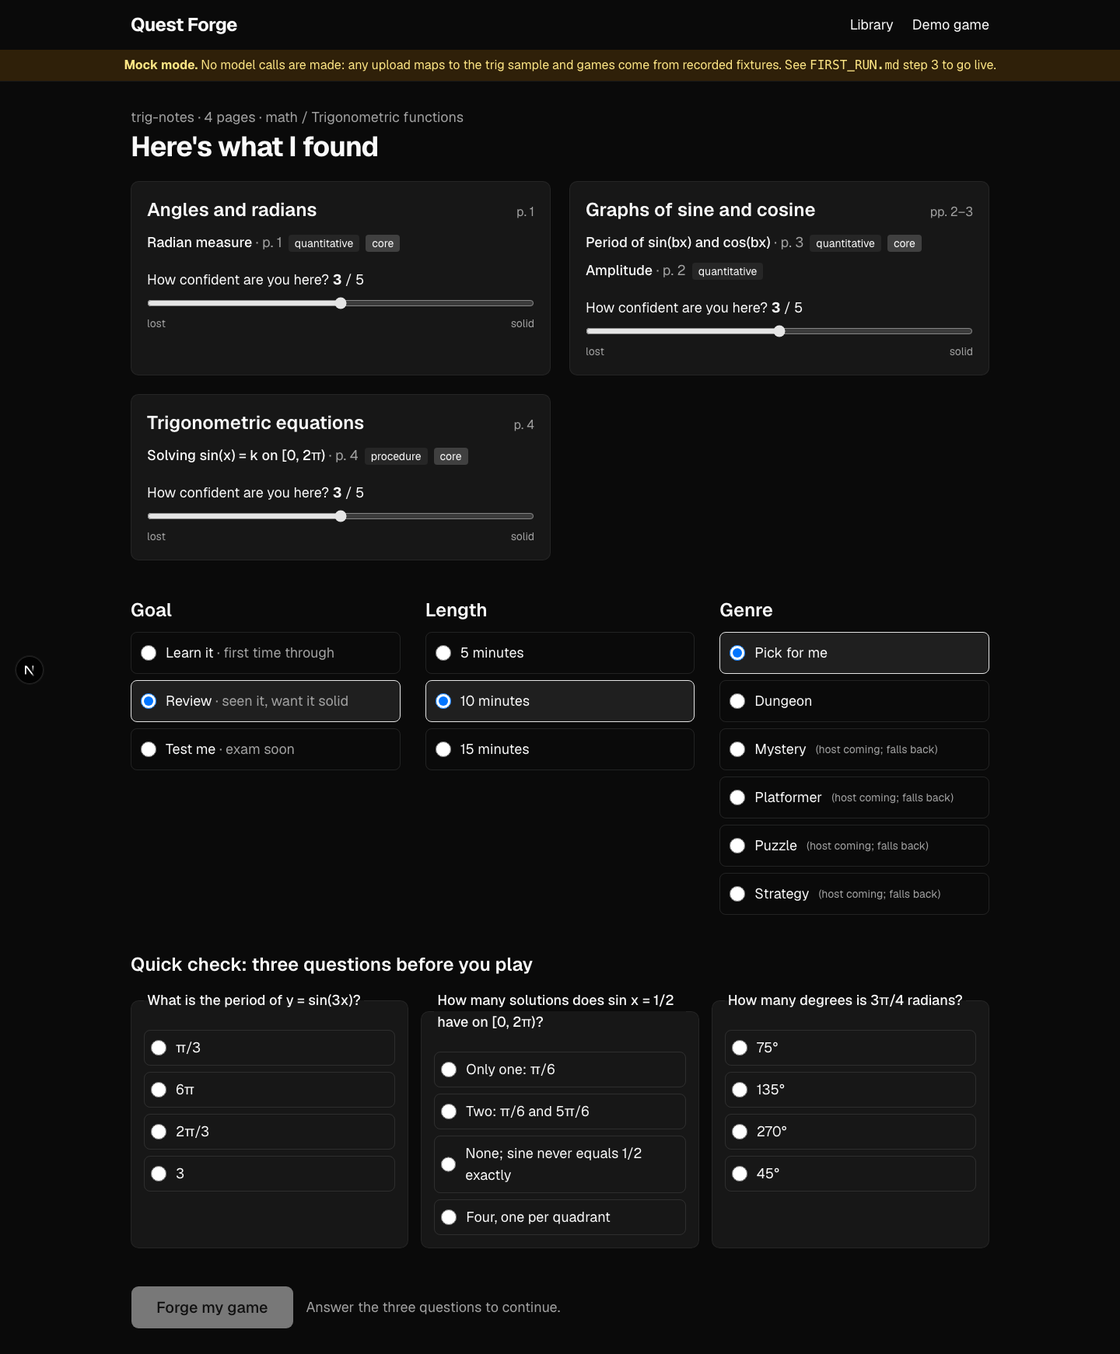
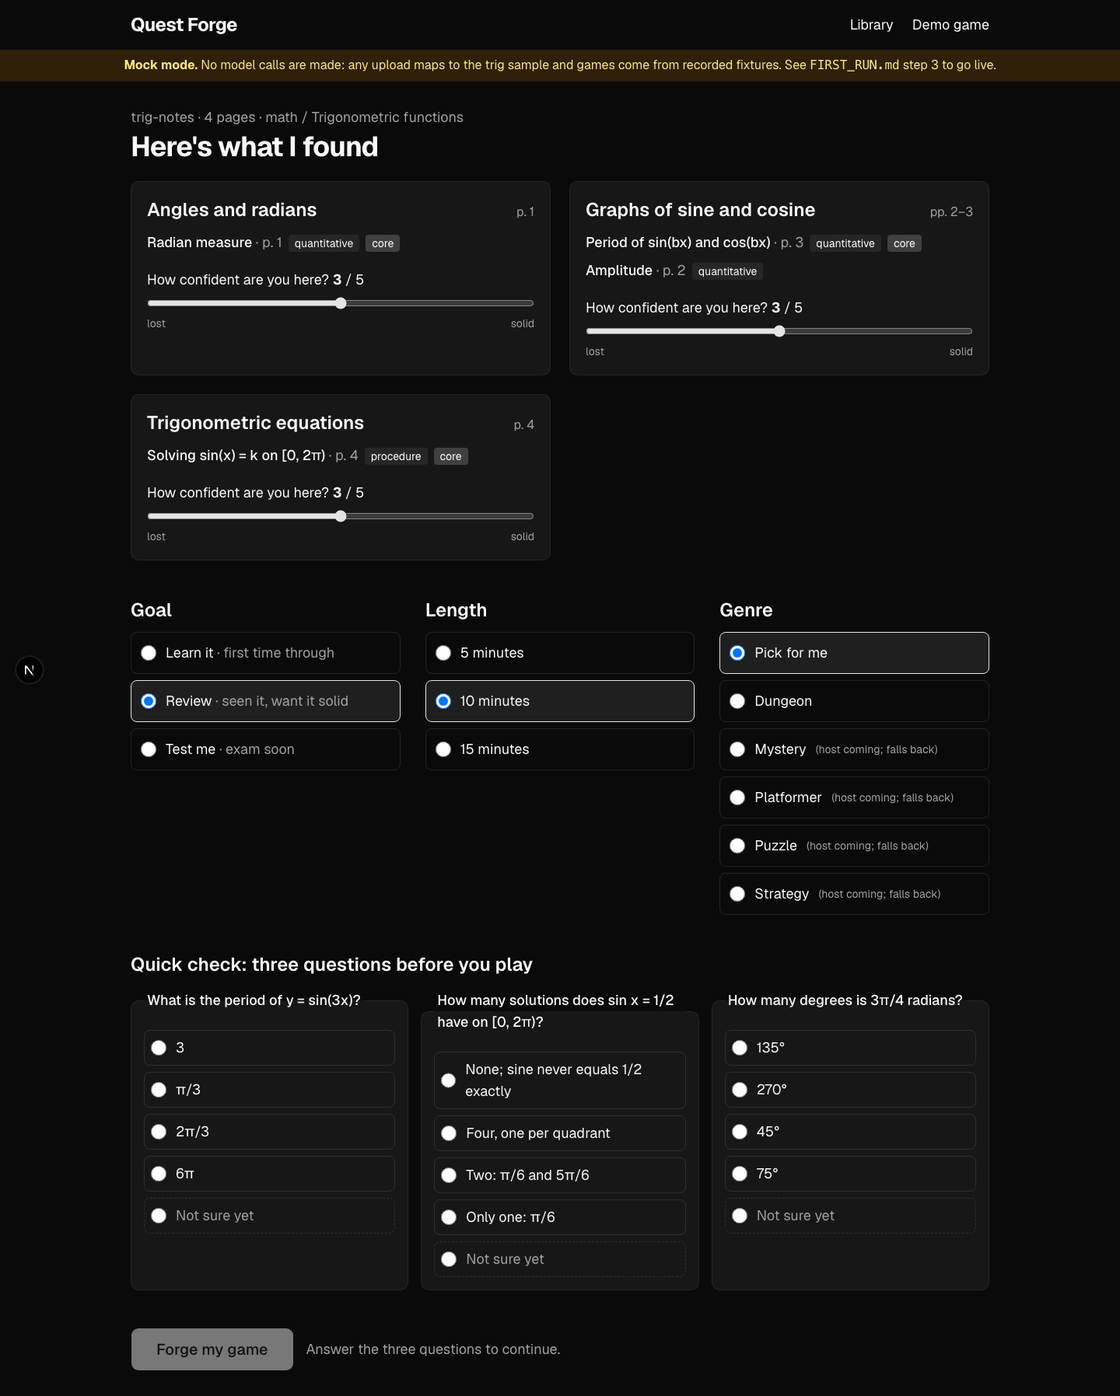
Finalize the overnight reports

diff --git a/src/contracts/storage.ts b/src/contracts/storage.ts
@@ -93,6 +93,8 @@ export interface StorageDriver {
   getTelemetry(gameId: string): Promise<TelemetryEvent[]>;
   /** Stores bytes at a path like "sources/<id>.pdf" or "audio/<hash>.mp3"; returns the path. */
   putBlob(path: string, data: Uint8Array, contentType: string): Promise<string>;
+  /** Reads a stored blob back (server side), or null when absent. Also used for small JSON side records such as intake prep. */
+  getBlob(path: string): Promise<Uint8Array | null>;
   /** Public URL the browser can fetch for a stored blob path. */
   blobUrl(path: string): string;
 }

diff --git a/MORNING_REPORT.md b/MORNING_REPORT.md
@@ -1,52 +1,60 @@
 # MORNING_REPORT.md
 
-_Last updated: 02:10 Sat (checkpoint 32). Final pass (P12) pending the three review-fix workers._
+_Final pass: 02:55 Sat (checkpoint 40). STATUS: COMPLETE in `PROGRESS.md`; the auto-continue hook is off._
 
 ## 1. Summary
 
-The whole product runs end to end in mock mode with zero keys: upload a PDF (or paste text, or type a topic) → the
-intake page shows the extracted concepts with page ranges, confidence sliders and a 3-question pre-check → the Forge
-streams one live card per agent over SSE, including verifier catches → the game plays in a Phaser 4 Dungeon or a
-DOM Mystery host with keyboard-accessible widgets → the debrief asks the post-check and shows pre→post, per-concept
-mastery and "what you just did" cards, with Replay / Regenerate-as-genre / Focus-on-weak-spots all wired. The
-library holds all 316 LIBRARY §6 cards across 14 families; 303 of them are playable through 61 implemented
-family·modes (every wave-1 mode and all of wave 2 except 8 niche modes), each with unit tests for check/resolve/grade and a fixture
-encounter. No live API has been called; the live code paths (OpenAI via AI SDK v7, ElevenLabs, Supabase) exist,
-are typed and unit-tested with fakes, and are documented step by step in `FIRST_RUN.md`.
+The whole product runs end to end in mock mode with zero keys and no paid API was called all night: upload a PDF (or
+paste text, or type a topic) → the intake page shows the extracted concepts with page ranges, confidence sliders and a
+3-question pre-check (with a "Not sure yet" option) → the Forge streams one live card per agent over SSE, including
+verifier catches → the game plays in a Phaser 4 **Dungeon**, a Phaser 4 **Platformer** or a DOM **Mystery** host with
+keyboard-accessible widgets → the debrief asks the post-check and shows pre→post, per-concept mastery and "what you just
+did" cards, with Replay / Regenerate-as-genre / Focus-on-weak-spots all wired and working on the showcase fixtures.
+
+The library holds all 316 LIBRARY §6 cards across 14 families; **303 are playable** through 61 implemented family·modes
+(every wave-1 and wave-2 mode except 8 niche ones), each with unit tests for check/resolve/grade, a fixture encounter,
+a widget, and a generic answer-leak test that proves wrong-answer feedback never contains the answer. An Opus reviewer
+read the whole tree at ~01:40; every critical/high/medium finding is fixed and checkpointed (§5b). The live code paths
+(OpenAI via AI SDK v7, ElevenLabs, Supabase) exist, are typed and unit-tested with fakes, and `FIRST_RUN.md` walks you
+through turning each one on.
 
 ## 2. Phases
 
 | Phase | Status | Notes |
 |---|---|---|
-| P0 bootstrap | done | Next 16.3.6, TS 5.9.3, Vitest 5, Playwright 1.63, shadcn; seed imported |
+| P0 bootstrap | done | Next 16.3.6, TS 5.9.3, Vitest 5, Playwright 1.63, shadcn; seed imported; `pnpm run doctor` |
 | P1 contracts v2 | done | 14 families / all modes registered, GameSpec v2, every LLM-facing slice schema strict-mode audited |
 | P2 library catalog | done | 316 cards / 23 domain files, retrieval matcher (6 golden cases), `pnpm library:report`, `/library` |
-| P3 runtime + dungeon | done | Phaser 4 host + DOM fallback, widgets, hint familiar, consequence overlay, mastery HUD, end screen, `__GAME_DEBUG__` |
-| P5a pipeline foundation | done | runAgent (repair + 429/503 + p-limit 6), event bus, Local/Supabase drivers, ingest + quote verification, 3 sample PDFs |
+| P3 runtime + dungeon | done | Phaser 4 host + DOM fallback, 8 widget families, hint familiar, consequence overlay, mastery HUD, end screen, `__GAME_DEBUG__` |
+| P5a pipeline foundation | done | runAgent (repair + 429/503 + p-limit 6, `maxRetries: 0`), event bus, Local/Supabase drivers, ingest + quote verification, 3 sample PDFs |
 | P4 wave-1 families | done | 14 modes + sort/link widgets + skins |
-| P5b front-half agents | done | gatekeeper, curriculum, pre-check, matcher; intake/matches routes; mocks for all 3 samples; `pnpm try:pdf` |
-| P6 orchestrator | done | jobs, SSE, regenerate (+ focusWeak), blind-solve verifier with regenerate→fallback, postcheck |
-| P7 UI + golden path | done; review fixes landing | all pages live and projector-polished; golden-path + 5 flow e2e green; reviewer (Opus) pass done — see §5b |
-| P11 showcase | done | trig / cell transport / civil rights (Dungeon + Mystery) / wave-2 proving ground fixtures; regenerate works on them |
-| P9 wave-2 families | done (13 cards catalog-only) | every family has real modes incl. all seven builder modes, composition, secant, reach_state; catalog-only: mapper.map, function_world.squeeze/epsilon_delta, transformer.inverse/domain_filter/matrix/geometric, recall.memory_palace/listen |
-| P10 more genres | Mystery done | platformer / puzzle / strategy specs play in the DOM host with a banner; no dedicated hosts (Saturday item B) |
-| P8 audio | done (code only, no key used) | Flash TTS with hash cache, 25 s deadline, dialogue flag, `pnpm audio:library`, `pnpm smoke:elevenlabs`; `attachAudio` runs in the orchestrator after the verifier and no-ops with `AUDIO_MODE=off` |
-| P12 final pass | pending | |
+| P5b front-half agents | done | gatekeeper (422 on non-educational), curriculum, pre-check, matcher; intake/matches routes; mocks for all 3 samples; `pnpm try:pdf` |
+| P6 orchestrator | done | jobs, SSE (+ replay from storage after a restart), regenerate (+ focusWeak), blind-solve verifier (parallel, drop-or-fallback), postcheck |
+| P7 UI + golden path | done | all pages projector-polished; golden-path + 5 flow e2e green with screenshots; reviewer pass done and every finding fixed |
+| P11 showcase | done | trig / cell transport / civil rights (Dungeon + Mystery) / trig Platformer / wave-2 proving ground; regenerate works on all |
+| P9 wave-2 families | done (13 cards catalog-only) | every family has real modes incl. all seven builder modes; still stubbed: mapper.map, function_world.squeeze/epsilon_delta, transformer.inverse/domain_filter/matrix/geometric, recall.memory_palace/listen |
+| P10 more genres | Mystery + Platformer done | Platformer plays on explicit request / Regenerate; auto-selection picks Dungeon or Mystery only (§5). Puzzle/strategy specs play in the DOM host with a banner |
+| P8 audio | done (code only, no key used) | Flash TTS with hash cache, 25 s deadline, dialogue flag, `pnpm audio:library`, `pnpm smoke:elevenlabs`; `attachAudio` runs after the verifier, no-ops with `AUDIO_MODE=off` |
+| P12 final pass | done | this report |
 
-## 3. Test results
+## 3. Test results (final tree, 02:50)
 
 | Check | Result |
 |---|---|
 | `pnpm typecheck` | pass |
-| `pnpm test` | 41 files, 490+ tests pass |
-| `pnpm e2e` | 6 tests pass (golden path, 3 play smokes incl. wave-2 widgets, 2 mystery); flow e2e being added by ui-dev |
-| `pnpm build` | pass (all routes listed) |
+| `pnpm test` | 59 files, 944 tests pass |
+| `pnpm e2e` | 13 tests pass (golden path, 5 flows, 3 play smokes, 2 mystery, 2 platformer) in ~25 s |
+| `pnpm build` | pass, zero warnings |
+| `pnpm lint` | 0 errors, 24 warnings (unused imports/variables in mechanics files, two stale eslint-disable comments) |
+| `pnpm run doctor` | "No problems for the selected modes" |
+| `pnpm library:report` | 303 implemented / 13 catalog-only, `validateCatalog(): no issues` |
+| `pnpm fixtures:build` | rebuilds all six fixtures byte-identically (drift test guards five pairs, the mock pipeline test the sixth) |
 
 ## 4. Checkpoints
 
 Replay with `bash .overnight/replay-checkpoints.sh` (you, not Claude). Details in `.overnight/CHECKPOINTS.md`.
-Scoped checkpoints only snapshot the listed paths; checkpoint 07 carries some early widget files that checkpoint 09
-finishes. The final tree is identical either way.
+Scoped checkpoints only snapshot the listed paths (they were taken while parallel workers had half-finished files
+elsewhere); the next checkpoints pick up the rest and the final tree is identical either way.
 
 - 01-bootstrap — Bootstrap Next.js 16 app and import the GameSpec seed
 - 02-contracts-v2 — Add contracts v2, family/mode registry, and starter catalog
@@ -81,6 +89,13 @@ finishes. The final tree is identical either way.
 - 31-fixture-ids — Recognise fixture games by spec id in game routes
 - 32-precheck-skip — Allow a not-sure answer on the pre-check
 - 33-widget-coverage — Add widget fallback card and build every missing mode widget
+- 34-review-mechanics — Fix predict, formula, and sample answer leaks; add leak and drift tests
+- 35-review-pipeline — Harden pipeline fallbacks, mock races, storage appends, and upload caps
+- 36-genre-platformer — Add Platformer genre host with arcade physics and a trig fixture
+- 37-sandbox-mathjs — Sandbox mathjs evaluation of model-written expressions
+- 38-genre-flag — Enable platformer on request and register all fixtures in the build
+- 39-lint-clean — Remove setState-in-effect and unescaped-entity lint errors
+- 40-overnight-final — Finalize the overnight reports
 
 ## 5. Decisions to review
 
@@ -89,50 +104,66 @@ Full log in `DECISIONS.md`; ⚠ = harder to reverse.
 - ⚠ TypeScript 5.9.3 instead of 7.0.2 (Next 16 build-time type check); one-line bump later.
 - ⚠ The boss socket is universal (any family can host the finale).
 - ⚠ Pre-check is written at intake and copied into the spec; the Assessment writer writes the post-check only.
-- ⚠ Mock mode adapts the canned Director blueprint to the live job (minutes, card enum, misconceptions) and pads
+  Pre-check answers may be `-1` ("Not sure yet"); the server now trusts only its own stored pre-check items, never the
+  client's `correctIndex`.
+- ⚠ Mock mode adapts the canned Director blueprint to the live job (minutes, genre, card enum, misconceptions) and pads
   with Mimic Chests; fixture byte-identity tests are untouched.
+- **Platformer is explicit-request only.** `IMPLEMENTED_GENRES` includes it (Regenerate as platformer works), but
+  `AUTO_GENRES = ["dungeon","mystery"]` drives auto-selection, because LIBRARY §1.1 weights would otherwise send every
+  math upload to the least-polished host on demo day. One-line change in `src/library/genres.ts` to promote it.
+- `evalExact` uses a sandboxed mathjs instance (no import/createUnit/evaluate/parse/compile/simplify/derivative; 400-char cap).
 - Mastery meter starts at 0.5 (configurable). Director genre override is not implemented (genre resolved in code).
-- Playwright and the overnight dev server use port 3100 (port 3000 is taken on this machine). `pnpm dev` still
-  defaults to 3000 for you.
+- Playwright and the overnight dev server used port 3100 (port 3000 is taken on this machine by something else). `pnpm dev`
+  still defaults to 3000 for you. The overnight dev server was stopped at the end of the run.
 - `agentRules: false` in next.config.ts: Next 16 otherwise generates AGENTS.md/CLAUDE.md.
 - Subagents ran as the built-in `claude` type with explicit Sonnet/Opus models and the role prompts pasted in
   (the project agents weren't loadable because the kit was copied after the session started; restart to use them).
 - `checkpoint.sh` gained optional path arguments for scoped snapshots.
+- Uploads are capped: 20 MB PDF, 200k characters of text, 200-character topic; `ALLOW_MIXED_MODES` silences the
+  mock-LLM-with-live-storage/audio warning that `pnpm run doctor` prints.
 
 ## 5b. Reviewer findings (Opus review of the whole tree, ~01:40) and what happened to them
 
 | Id | Severity | Finding | Status |
 |---|---|---|---|
-| C1 | critical | ~27 implemented modes had no widget variant → `/play` could crash on a live-generated game | engine-dev: `supports(view)` per widget, a safe fallback card with Skip, every missing variant (60/60 modes), `coverage.test.ts` — checkpoint 33 |
-| H1 | high | game/source ids and fixture names reached the filesystem unvalidated | fixed by main: LocalDriver segment regex, fixture-name regex, telemetry 404 on unknown game (checkpoints 30, 31) |
-| H2 | high | `simulator.predict` miss feedback stated the true outcome | mechanics-dev — TODO(final) |
-| H3 | high | `simulator.predict` answer key trusted the model's `isCorrect` | mechanics-dev: options carry `asserts`, code derives the key — TODO(final) |
-| H4 | high | `tuner.formula` accepted flat outputs; graded the input, not the output | mechanics-dev — TODO(final) |
-| M1–M9 | medium | repair-round/narrative/assessment fallbacks, blind-solver catch+drop, `check()` try/catch, `maxRetries:0` + 429 test, mock memo per job, gatekeeper 422, SSE replay from storage, upload caps | pipeline-dev — TODO(final) |
-| L | low | trace hint could leak the asked variable; chem symbols unchecked; `Intake.preCheck.answers` had no "skipped" value | mechanics-dev for the first two — TODO(final); `-1` = not sure landed (checkpoint 32) |
+| C1 | critical | ~27 implemented modes had no widget variant → `/play` could crash on a live-generated game | fixed: `supports(view)` per widget, a safe fallback card with Skip, every missing variant (60/60 modes), `src/game/widgets/coverage.test.ts` — checkpoint 33 |
+| H1 | high | game/source ids and fixture names reached the filesystem unvalidated | fixed: LocalDriver segment regex, fixture-name regex, telemetry 404 on unknown game — checkpoints 30, 31 |
+| H2 | high | `simulator.predict` miss feedback stated the true outcome | fixed: feedback uses the picked option's own explanation + a non-directional nudge — checkpoint 34 |
+| H3 | high | `simulator.predict` answer key trusted the model's `isCorrect` | fixed: options carry `asserts`, code derives the key and rejects mismatches — checkpoint 34 |
+| H4 | high | `tuner.formula` accepted flat outputs and graded the input, not the output | fixed: monotonic + non-trivial range required; grade within 3% of the output range — checkpoint 34 |
+| M1–M9 | medium | repair-round/narrative/assessment fallbacks, blind-solver catch+drop (parallel), `check()` try/catch, `maxRetries:0` + 429 test, mock memo per job, gatekeeper 422, append-only events + SSE replay from storage, teach promotion after drop, upload caps, mixed-modes warning | all fixed with tests — checkpoint 35 |
+| L | low | trace hint could leak the asked variable; chem symbols unchecked; no "skipped" pre-check value; mathjs `evaluate` on model strings | all fixed — checkpoints 34, 32, 37 |
+| new | high | the generic answer-leak sweep found `simulator.sample` stating the computed statistic on a miss | fixed — checkpoint 34 |
 
-The reviewer also ran `git add -N .` by mistake (a write to the index, against the rules); there were no commits, so the
+Known limits the workers flagged: M8 promotes only a non-boss encounter to "teach" after a drop; the repair-round
+challenge fallback is implemented but no black-box test reaches that exact branch; the newest widgets (builder gate
+editor, intervene schedule) are plain forms rather than drag UIs; Platformer obstacles other than gap/gate/boss are
+trigger-only.
+
+The reviewer also ran `git add -N .` by mistake (an index write, against the rules); there were no commits, so the
 index was removed (`rm .git/index`) and no history was affected. Logged in `DECISIONS.md`.
 
 ## 6. Blockers
 
-None. Everything planned either landed or is running (see §2). Skipped on purpose: the optional S5 challenge bank.
+None. Everything planned either landed or is listed above as a known limit. Skipped on purpose: the optional S5
+challenge bank; Puzzle and Strategy hosts (DOM fallback plays them).
 
 ## 7. Do this first
 
-1. `FIRST_RUN.md` step 1–2: `pnpm install`, `pnpm run doctor`, `pnpm test`, `pnpm dev`, open http://localhost:3000, play
-   the three showcase cards and the wave-2 proving ground.
-2. Step 3: OpenAI key → `.env.local` (`LLM_MODE=live`) → `pnpm smoke:openai` (confirms the key, the model ids and the strict
+1. `FIRST_RUN.md` steps 1–2: `pnpm install`, `pnpm run doctor`, `pnpm test`, `pnpm dev`, open http://localhost:3000, play
+   the three showcase cards, the Platformer, and the wave-2 proving ground; try "Regenerate as mystery" on a debrief.
+2. Replay the checkpoints as commits (`FIRST_RUN.md` §10) before anyone edits, so the history is clean.
+3. Step 3: OpenAI key → `.env.local` (`LLM_MODE=live`) → `pnpm smoke:openai` (confirms the key, the model ids and the strict
    schema in one Director call).
-3. Step 4: `pnpm try:pdf samples/trig-notes.pdf`, then your own PDF; then the same upload through the UI.
+4. Step 4: `pnpm try:pdf samples/trig-notes.pdf`, then your own PDF; then the same upload through the UI.
 
 ## 8. Suggested Saturday plan (team of four)
 
 | Who | Hours | Work |
 |---|---|---|
-| A (pipeline) | 3 | First live run: fix prompt/schema issues `smoke:openai` and `try:pdf` surface; tune the curriculum prompt on 2–3 real PDFs; wire `attachAudio` into the orchestrator after `putGame` |
-| B (game) | 4 | Real Kenney tile frames for floors/walls/props in the Dungeon; Platformer host (P10.2) if time; polish the live dial→object animation |
-| C (mechanics) | 3 | Remaining 53 catalog-only cards: builder modes (if the worker didn't finish), simulator.reach_state, accumulator signed/rate_total/average_value, function_world continuity/asymptote/secant/roots/squeeze, transformer inverse/composition/domain_filter/matrix/geometric, mapper.map, recall memory_palace/listen |
+| A (pipeline) | 3 | First live run: fix prompt/schema issues `smoke:openai` and `try:pdf` surface; tune the curriculum prompt on 2–3 real PDFs; watch the verifier's fallback rate on live games |
+| B (game) | 4 | Real Kenney tile frames for floors/walls/props in the Dungeon; give Platformer obstacles real collision and promote it to `AUTO_GENRES` if it feels good; polish the newest widget variants (builder gate editor, intervene schedule) |
+| C (mechanics) | 2 | Remaining 13 catalog-only cards (mapper.map, function_world.squeeze/epsilon_delta, transformer.inverse/domain_filter/matrix/geometric, recall.memory_palace/listen); clear the 24 lint warnings |
 | D (product) | 3 | Demo script and projector rehearsal; a11y sweep; ElevenLabs key + `pnpm audio:library` once; Supabase only if you want persistence across laptops |
 | All | 1 | Replay checkpoints as commits, push, deploy notes (FIRST_RUN §8) |
 
@@ -141,13 +172,16 @@ None. Everything planned either landed or is running (see §2). Skipped on purpo
 - **Live model ids** (`gpt-6-sol`, `gpt-6-luna`) are unverified until `pnpm smoke:openai`; every stage degrades to
   mock mode, so the demo works with zero keys.
 - **WebGL**: Phaser 4 is WebGL-only; the DOM fallback host plays the same game if the projector laptop lacks it.
-- **Port 3000 busy**: `PORT=3001 pnpm dev`; e2e already uses 3100.
+- **Port 3000 busy**: `PORT=3001 pnpm dev`; e2e uses 3100.
 - **Live generation quality**: the verifier + blind solver + Mimic Chest fallback guarantee a winnable game; the
   first live runs may show more fallbacks than fixtures do. Keep the showcase fixtures as the safety net.
-- **Fixture regenerate** materializes the fixture into `.data/` on first use; delete `.data/` to reset.
+- **Fixture regenerate** materializes the fixture into `.data/` on first use; delete `.data/` to reset. `.data/` also
+  holds tonight's test uploads and generated games; it is gitignored.
 
 ## 10. Links
 
 - Screenshots: `docs/overnight/screens/` (home, intake, forge, play, end screen, debrief, library)
 - Library browser: http://localhost:3000/library
-- Showcase: http://localhost:3000/play/fixture-trig · /play/fixture-cell-transport · /play/fixture-civil-rights-mystery · /play/fixture-wave2
+- Showcase: http://localhost:3000/play/fixture-trig · /play/fixture-cell-transport · /play/fixture-civil-rights-mystery ·
+  /play/fixture-trig-platformer · /play/fixture-wave2
+- Mode contracts: `docs/overnight/wave1-modes.md`; HTTP API: `instructions.md` §9

diff --git a/FIRST_RUN.md b/FIRST_RUN.md
@@ -33,7 +33,8 @@ no `.env.local`). No account, no network calls to paid APIs.
 |---|---|
 | `pnpm run doctor` | "Modes: LLM_MODE=mock STORAGE_DRIVER=local AUDIO_MODE=off", green ticks for node/pnpm, "No problems for the selected modes", and a Next step line. (`pnpm doctor` without `run` triggers pnpm's own builtin doctor, which is not this.) |
 | `pnpm typecheck` | silence (exit 0) |
-| `pnpm test` | `Test Files N passed`, `Tests N passed` (the count grows through the night; see MORNING_REPORT.md for the final number) |
+| `pnpm lint` | `0 errors` (a couple dozen unused-variable warnings remain; they are listed for Saturday in MORNING_REPORT.md §8) |
+| `pnpm test` | `Test Files N passed`, `Test Files 59 passed`, `Tests 944 passed` (about 20 s) |
 | `pnpm dev` then open http://localhost:3000 | The home page with the upload panel and the showcase cards. Click **Trigonometry → Play**: the dungeon loads (`/play/fixture-trig`), walk to the first socket with the arrow keys, the widget opens; the sidekick panel gives 3 tiers of hints. Finish → the end screen posts telemetry and links to the debrief, which asks 3 post-check questions and shows the pre→post score. Also try **Cell transport** (Dungeon, 11 rooms), **Civil rights** (`/play/fixture-civil-rights-mystery`, the Mystery host) the **Wave-2 proving ground** (`/play/fixture-wave2`, nine different mechanics) and **Trigonometry as a Platformer** (`/play/fixture-trig-platformer`: arrow keys / space to run and jump, E at an obstacle). On any debrief, **Regenerate as mystery** (or platformer) forges the same material in that genre in mock mode; "auto" picks Dungeon or Mystery only. If port 3000 is busy: `PORT=3001 pnpm dev`. |
 | upload `samples/cell-transport.pdf` on the home page | The intake page lists 9 concepts in 4 units with page ranges (0 dropped quotes), sliders and a pre-check; **Forge my game** streams one card per agent and opens the generated dungeon in about 3 seconds (mock mode: every upload maps to the closest sample; an unknown PDF maps to trig). |
 | open http://localhost:3000/library | The catalog browser: 316 teaching-mechanic cards with counts by domain and family, "playable now" vs "catalog only", and the family × genre adapter matrix. |

diff --git a/PROGRESS.md b/PROGRESS.md
@@ -1,4 +1,4 @@
-STATUS: IN PROGRESS
+STATUS: COMPLETE
 # PROGRESS (overnight build, HackGT 13)
 
 Times are local (America/New_York). `[ ]` todo · `[x]` done · `[~] blocked: reason`.
@@ -98,8 +98,8 @@ Times are local (America/New_York). `[ ]` todo · `[x]` done · `[~] blocked: re
 - [x] scripts/audio-library.ts, src/pipeline/audio/ (Flash TTS, concurrency 4, hash cache, 25 s deadline, dialogue flag), smoke:elevenlabs, AUDIO_MODE=off no-ops; wired into the orchestrator after the verifier
 
 ## P12 — Final pass (checkpoint: overnight-final)
-- [ ] 1. typecheck, test, e2e, build
-- [ ] 2. Finalize FIRST_RUN.md + MORNING_REPORT.md
-- [ ] 3. Checkpoint
-- [ ] 4. STATUS: COMPLETE on line 1
-- [ ] 5. Delete .overnight/ENABLED
+- [x] 1. typecheck, test, e2e, build — all green 02:50 (59 files / 944 tests; 13 e2e; build clean; lint 0 errors)
+- [x] 2. Finalize FIRST_RUN.md + MORNING_REPORT.md — 02:55
+- [x] 3. Checkpoint — 40-overnight-final
+- [x] 4. STATUS: COMPLETE on line 1
+- [x] 5. Delete .overnight/ENABLED

diff --git a/DECISIONS.md b/DECISIONS.md
@@ -85,3 +85,8 @@ Format: one line of decision, one line of the alternative not taken. Newest at t
 ## 02:30 `scripts/build-fixtures.ts` rebuilds all six fixtures
 - Added civil-rights-mystery, wave2-dungeon and trig-platformer to the table (the first two were built by one-off scripts earlier tonight). `tests/fixtures-drift.test.ts` covers five slices↔JSON pairs (trig-dungeon is covered by `tests/pipeline-mock.test.ts`).
 
+## 02:55 Final pass
+- All §9 phases done or documented as known limits (PROGRESS.md). Final tree: typecheck clean, 59 files / 944 tests, 13 e2e, build clean, lint 0 errors / 24 warnings.
+- The overnight dev server on port 3100 (started with nohup for Playwright) was stopped at the end of the run; `pnpm e2e` starts its own.
+- `.overnight/ENABLED` deleted after checkpoint 40; `STATUS: COMPLETE` on line 1 of PROGRESS.md.
+
